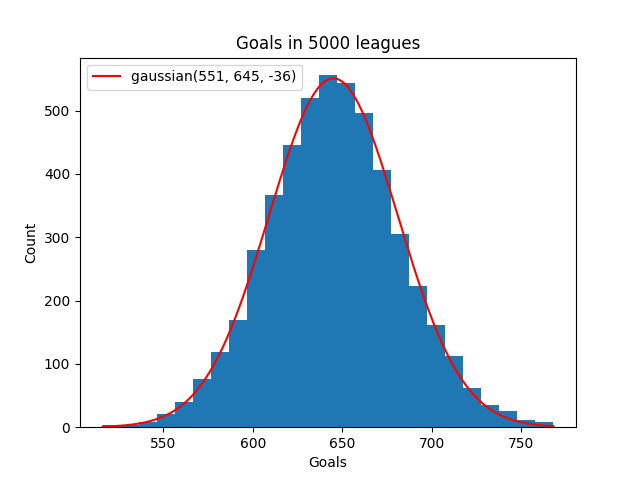
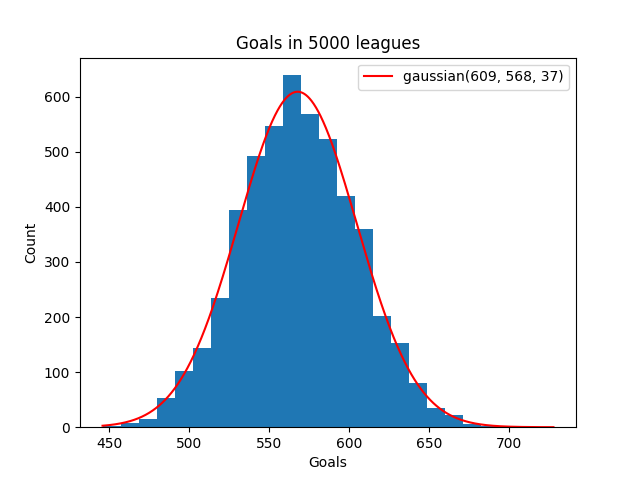
Add files via upload

diff --git a/simulation.py b/simulation.py
@@ -5,22 +5,22 @@ from scipy.optimize import curve_fit
 # Ustawienia symulacji
 config = {
 	"leaguesNum": 5000, # liczba lig do symulacji
-	"teamsToGenerate": 16, # liczba drużyn do wygenerowania
-	"leagueToImport": "None", # drużyny z ligi "None" / "Ekstraklasa" / "La Liga" do importu
+	"teamsToGenerate": 16, # liczba drużyn do wygenerowania (ustawić 0 kiedy chcemy zaimportować)
+	"leagueToImport": "None", # drużyny z ligi "None" / "Ekstraklasa" / "La Liga" do zaimportowania
 	"histogramBinsNum": 25, # liczba klas w histogramie
 
-	"showMatchResults": False,
-	"showLeagueTable": False,
-	"showLeagueSummary": False,
-	"showAllLeaguesSummary": True,
-	"showHistogram": True,
-	"showFitFunction": True,
+	"showMatchResults": False, # wyświetlanie w konsoli wyników meczów
+	"showLeagueTable": False, # wyświetlanie w konsoli końcowej tabeli ligi
+	"showLeagueSummary": False, # wyświetlanie w konsoli podsumowaninia ligi
+	"showAllLeaguesSummary": True, # wyświetlenie w konsoli podsumowania wszystkich lig
+	"showHistogram": True, # wyświetlenie końcowego histogramu
+	"showFitFunction": True, # wyświetlenie w konsoli funkcji dopasowania wraz z parametrami
 
-	"saveDataToFile": True,
-	"saveHistogramToFile": True,
+	"saveDataToFile": True, # zapis danych (goli w ligach) do pliku
+	"saveHistogramToFile": True, # zapis histogramu do pliku
 
-	"dataFileName": "goals.txt",
-	"histogramFileName": "histogram.png"
+	"dataFileName": "goals.txt", # nazwa pliku do zapisu danych
+	"histogramFileName": "histogram.png" # nazwa pliku do zapisu histogramu
 }
 
 # Drużyny z lig do importu
@@ -64,7 +64,6 @@ leaguesToImport = {
 	"None": []
 }
 
-# Klasa pogody
 class Weather:
 	def __init__(self, type="Sunny", temperature=20.0, windSpeed=0):
 		self.type = type
@@ -81,7 +80,7 @@ class Weather:
 			"Foggy": 0.9, # Foggy
 			"Drizzle": 0.8, # Drizzle
 			"Rainy": 0.7, # Rainy
-			"Snowy": 0.75, # Snowy
+			"Snowy": 0.8, # Snowy
 			"Stormy": 0.5 # Stormy
 			}
 
@@ -104,23 +103,22 @@ class Weather:
 
 	def generateType(self):
 		self.weatherTypes = ["Sunny", "Cloudy", "Foggy", "Drizzle", "Rainy", "Snowy", "Stormy"]
-		self.weatherProbabilities = [0.55, 0.25, 0.07, 0.05, 0.05, 0.025, 0.005]
+		self.weatherProbabilities = [0.5, 0.25, 0.1, 0.05, 0.05, 0.04, 0.01]
 		self.type = np.random.choice(a=self.weatherTypes, p=self.weatherProbabilities)
 
 	def generateTemperature(self):
-		mean, stdDev = 10, 10
+		mean, stdDev = 15, 10
 		self.temperature = round(np.random.normal(mean, stdDev), 1)
 
 	def generateWindSpeed(self):
-		mean = 10
-		self.windSpeed = round(np.random.exponential(mean))
+		lam = 10
+		self.windSpeed = round(np.random.exponential(lam))
 
 	def generate(self):
 		self.generateType()
 		self.generateTemperature()
 		self.generateWindSpeed()
 
-# Klasa drużyny
 class Team:
 	def __init__(self, name = "Team", power = 0, matches = 0, wins = 0, draws = 0, losses = 0, goalsFor = 0, goalsAgainst = 0, points = 0):
 		self.name = name
@@ -144,7 +142,6 @@ class Team:
 	def __str__(self):
 		return f"{self.name}\t{self.power:.2f}\t{self.matches}|{self.wins}/{self.draws}/{self.losses}\t{self.goalsFor}/{self.goalsAgainst}/{self.goalDifference}|{self.avgGoals:.2f}\t{self.points}"
 
-# Klasa meczu
 class Match:
 	def __init__(self, home, away, homeGoals=0, awayGoals=0, weather=Weather()):
 		self.home = home
@@ -172,15 +169,15 @@ class Match:
 		away.matches += 1
 
 		# Losowanie liczby goli strzelonych przez każdą drużynę zależne od siły drużyny, kto jest gospodarzem i pogody
-		mean = 1.25
+		base = 1
 		self.homeBonus = 0.1
 		self.awayPenalty = -0.05
 
-		homeGoals = np.random.poisson(lam = (mean + home.power + self.homeBonus) * weather.goalChance)
+		homeGoals = np.random.poisson(lam = (base + home.power + self.homeBonus) * weather.goalChance)
 		home.goalsFor += homeGoals
 		away.goalsAgainst += homeGoals
 
-		awayGoals = np.random.poisson(lam = (mean + away.power + self.awayPenalty) * weather.goalChance)
+		awayGoals = np.random.poisson(lam = (base + away.power + self.awayPenalty) * weather.goalChance)
 		away.goalsFor += awayGoals
 		home.goalsAgainst += awayGoals
 
@@ -201,7 +198,6 @@ class Match:
 		self.homeGoals = homeGoals
 		self.awayGoals = awayGoals
 
-# Klasa ligi
 class League:
 	def __init__(self, name="League"):
 		self.name = name
@@ -264,7 +260,6 @@ class League:
 
 # Funkcja Gaussa
 def gaussian(x, a, mean, sigma):
-	if sigma == 0: return 0
 	return a * np.exp(-0.5 * ((x - mean) / sigma) ** 2)
 
 # Tworzy histogram z danych
@@ -277,7 +272,7 @@ def createHistogram(data, binsNum, fitFunction, title="", xlabel="", ylabel=""):
 
 	# Dopasowanie funkcji
 	parameters, covariance = curve_fit(fitFunction, binCenters, count, p0=[1, np.mean(data), np.std(data)])
-	parameters = tuple(round(param) for param in parameters)
+	parameters = tuple(round(param) for param in parameters) # zaokrąglanie parametrów
 
 	# Wartości dopasowanej funkcji
 	x_fit = np.linspace(min(data), max(data), 1000)
@@ -313,13 +308,14 @@ def writeDataToFile(data, fileName):
 # Symulacja wielu lig i zbieranie statystyk #
 # ----------------------------------------- #
 
-# Importowanie lig, jeśli wybrano
+# Importowanie dużyn z ligi, jeśli wybrano jakąś
 importedLeague = leaguesToImport[config["leagueToImport"]]
 
-if config['leaguesNum'] > 0 and config['teamsToGenerate'] + len(importedLeague) >= 2:
+if config['leaguesNum'] > 0 and config['teamsToGenerate'] + len(importedLeague) >= 2: # min 1 liga i 2 drużyny
 	goalsInLeagues = []
 	matchesInLeagues = []
 
+	# Symulacja lig
 	for i in range(config['leaguesNum']):
 		league = League()
 		if importedLeague: league.importTeams(importedLeague)
@@ -329,6 +325,7 @@ if config['leaguesNum'] > 0 and config['teamsToGenerate'] + len(importedLeague) 
 		goalsInLeagues.append(league.goals)
 		matchesInLeagues.append(league.matches)
 
+		# Tabela i podsumowanie ligi
 		if config['showLeagueTable']: league.showTable()
 		if config['showLeagueSummary']: league.showSummary()
 
@@ -336,16 +333,16 @@ if config['leaguesNum'] > 0 and config['teamsToGenerate'] + len(importedLeague) 
 	if config['showAllLeaguesSummary']:
 		allMatchesInLeagues = sum(matchesInLeagues)
 		allGoalsInLeagues = sum(goalsInLeagues)
+		avgGoalsInLeagues = allGoalsInLeagues / config['leaguesNum']
 		minGoalsInLeagues = min(goalsInLeagues)
 		maxGoalsInLeagues = max(goalsInLeagues)
 		rangeOfGoalsInLeagues = maxGoalsInLeagues - minGoalsInLeagues
-		avgGoalsInLeagues = allGoalsInLeagues / config['leaguesNum']
 		avgGoalsPerMatchInLeagues = allGoalsInLeagues / allMatchesInLeagues if allMatchesInLeagues > 0 else 0
 		avgTeamGoalsPerMatchInLeagues = avgGoalsPerMatchInLeagues / 2
 
 		print(f"\nAll ({config['leaguesNum']}) leagues summary:\nMatches: {allMatchesInLeagues}\nGoals: {allGoalsInLeagues}"
-		+ f"\nMin goals/league: {minGoalsInLeagues}\nMax goals/league: {maxGoalsInLeagues}\nRange goals/league: {rangeOfGoalsInLeagues}"
-		+ f"\nAvg goals/league: {round(avgGoalsInLeagues, 2)}\nAvg goals/match: {round(avgGoalsPerMatchInLeagues, 2)}\nAvg team goals/match: {round(avgTeamGoalsPerMatchInLeagues, 2)}")
+		+ f"\nAvg goals/league: {round(avgGoalsInLeagues, 2)}\nMin goals/league: {minGoalsInLeagues}\nMax goals/league: {maxGoalsInLeagues}"
+		+ f"\nRange goals/league: {rangeOfGoalsInLeagues}\nAvg goals/match: {round(avgGoalsPerMatchInLeagues, 2)}\nAvg team goals/match: {round(avgTeamGoalsPerMatchInLeagues, 2)}")
 
 	# Zapis danych do pliku
 	if config['saveDataToFile']:
